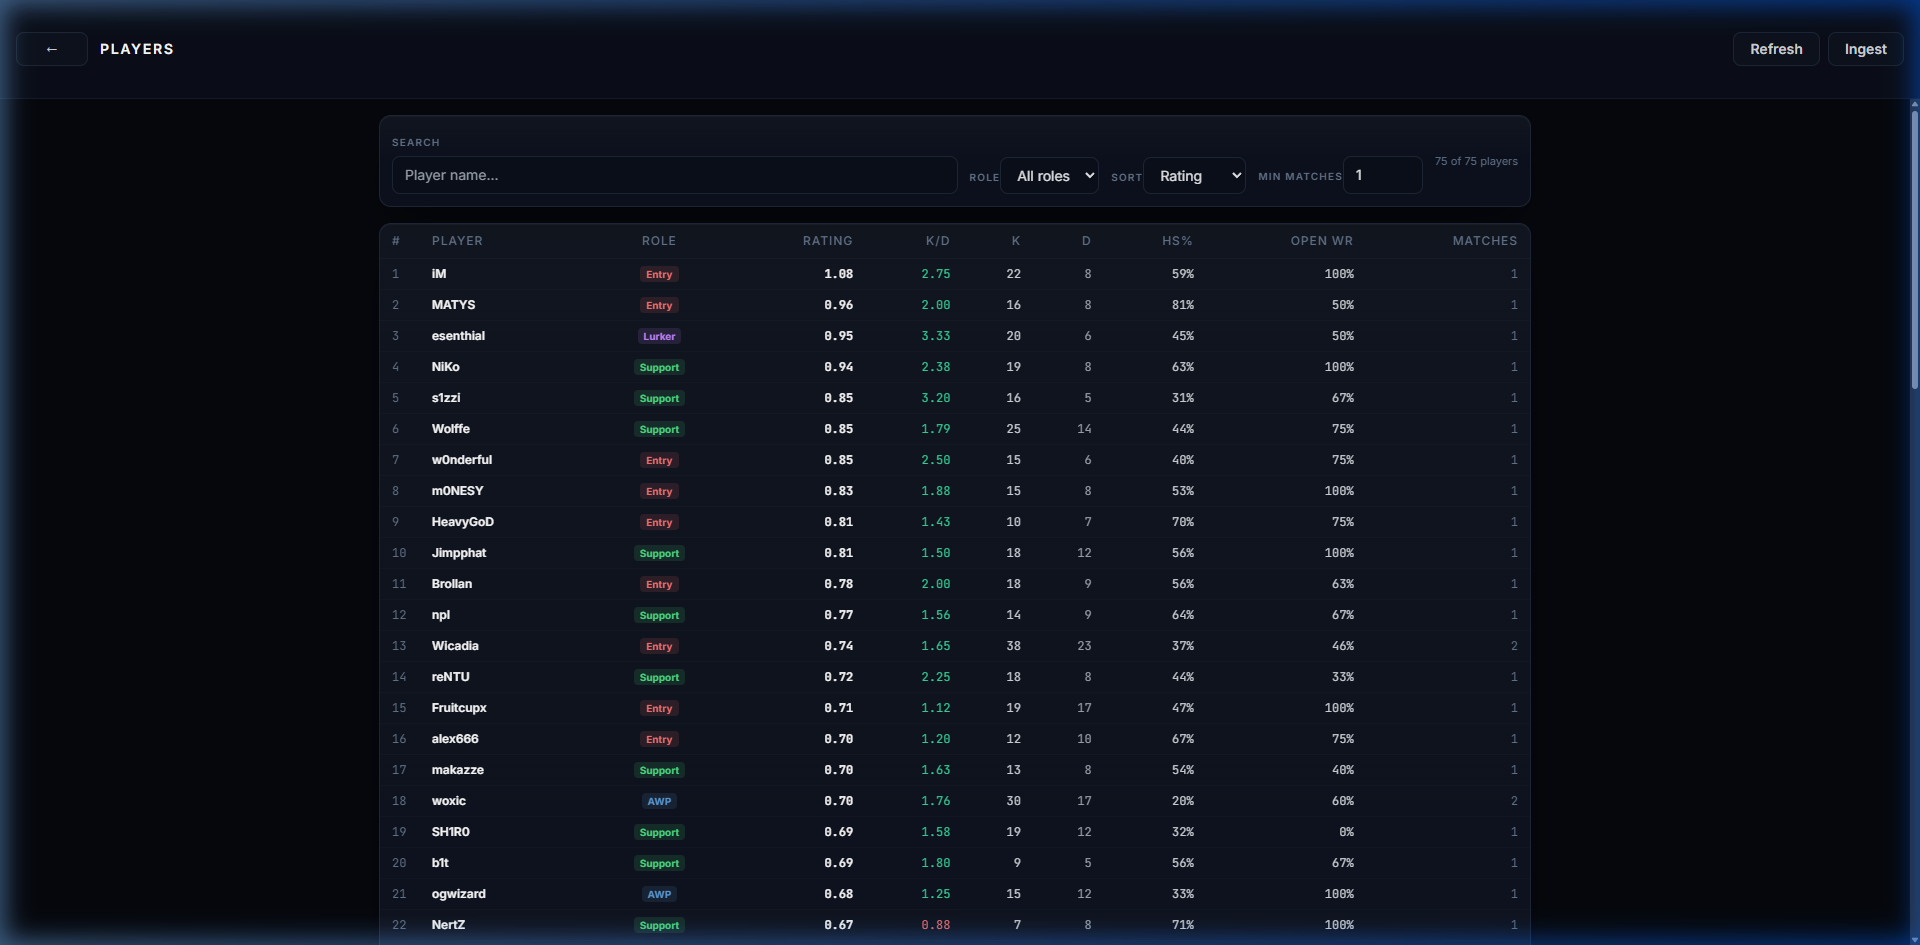
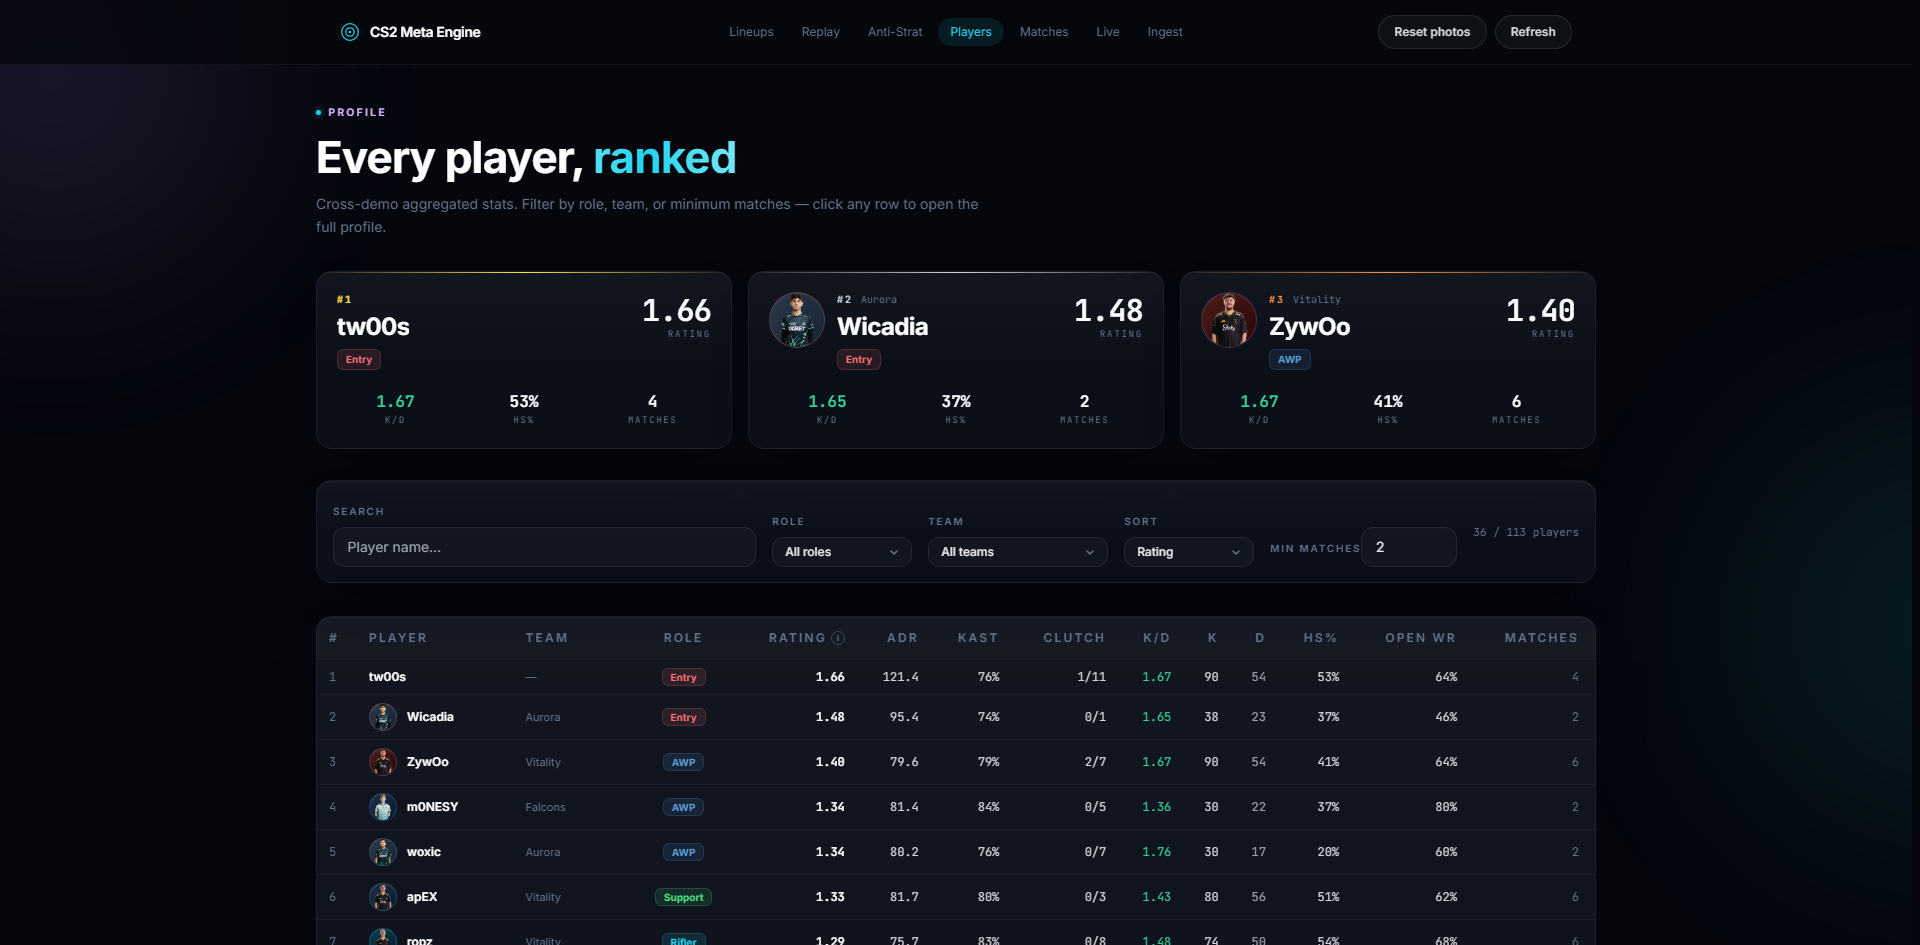
docs: recapture README screenshots for the current app
23 shots at 1920x945 including the new features (key moments, compare,
practice lists, default setups, Liquipedia matches, auto-import, Nuke
upper/lower live radar) plus a phone composite; capture script included.

diff --git a/README.md b/README.md
@@ -30,41 +30,65 @@ It runs locally, or self-hosted on Kubernetes with Postgres, a job worker, CI/CD
 ### Home
 ![Landing Page](screenshots/landing.png)
 
-### Grenade lineups: impact-ranked pro lineups with scatter plot and technique detection
+### Grenade lineups: impact-ranked pro lineups, technique and click detection, executes
 ![Grenade Lineups](screenshots/lineups.png)
 
-### Demo picker: upload or browse demos grouped by map
+### Practice lists: star lineups, reorder and annotate them, then export a CS2 `.cfg` that cycles with `]` / `[`
+![Practice Lists](screenshots/practice-lists.png)
+
+### Demo picker: upload `.dem` or archives, My matches filter, partial-demo badges
 ![Demo Picker](screenshots/demo-picker.png)
 
-### Match replay: live 2D viewer with team header, score and bomb timer
+### Match replay: opened from a share link (`?round=14&t=38`)
 ![Match Replay](screenshots/replay.png)
 
-### Insights: round overlay with utility paths, entry/exit markers, flash blinds and AOE radii
+### Key moments: entries, multi-kills, clutches, plants, defuses and eco wins, each with a link
+![Key Moments](screenshots/key-moments.png)
+
+### Compare: your throws vs the nearest pro lineup
+![Compare](screenshots/compare.png)
+
+### Insights: round, patterns and heatmap modes
 ![Insights — Round mode](screenshots/insights.png)
-
-### Insights · Patterns: one player across every round, or drill into a single round
 ![Insights — Patterns](screenshots/insights-patterns.png)
-
-### Insights · Heatmap: grenade landings across the match
 ![Insights — Heatmap](screenshots/insights-heatmap.png)
 
-### Economy: equipment value and buy types round by round
+### Economy: equipment value and buy types (Pistol / Eco / Force / Half / Full)
 ![Economy Tracker](screenshots/economy.png)
 
 ### Heatmap: positions, deaths and utility
 ![Heatmap](screenshots/heatmap.png)
 
-### Stats: per-player scoreboard
+### Stats: K/D, ADR, KAST, clutches and trades per match
 ![Stats Panel](screenshots/stats.png)
 
-### Anti-strat: scouting report for an opponent
+### Anti-strat: scouting report with partial-demo warnings, share link and Print / PDF
 ![Anti-Strat Report](screenshots/anti-strat.png)
+
+### Anti-strat: CT default setups and T spread at 0:20
+![Anti-Strat Default Setups](screenshots/anti-strat-setups.png)
+
+### Anti-strat: utility tendencies, AWP positions and player breakdown
 ![Anti-Strat Utility & AWP](screenshots/anti-strat-2.png)
 ![Anti-Strat Player Breakdown](screenshots/anti-strat-3.png)
 
-### Players: cross-demo leaderboard and profiles
+### Players: Rating 2.0 leaderboard and profiles with ADR, KAST and clutches
 ![Players](screenshots/players.png)
 ![Player Detail](screenshots/player-detail.png)
+
+### Matches: Liquipedia catalog with tiers and HLTV / Liquipedia links
+![Matches](screenshots/matches.png)
+
+### Ingest: auto-import from folders (CS2 replays, inbox, Downloads)
+![Auto-import](screenshots/ingest-auto-import.png)
+
+### Live radar: Game State Integration, with upper and lower levels on Nuke
+![Live Radar](screenshots/live-radar.png)
+
+### On a phone
+![Mobile](screenshots/mobile.png)
+
+Screenshots are produced by `frontend/scripts/capture-screenshots.mjs` against a running local app.
 
 ---
 
